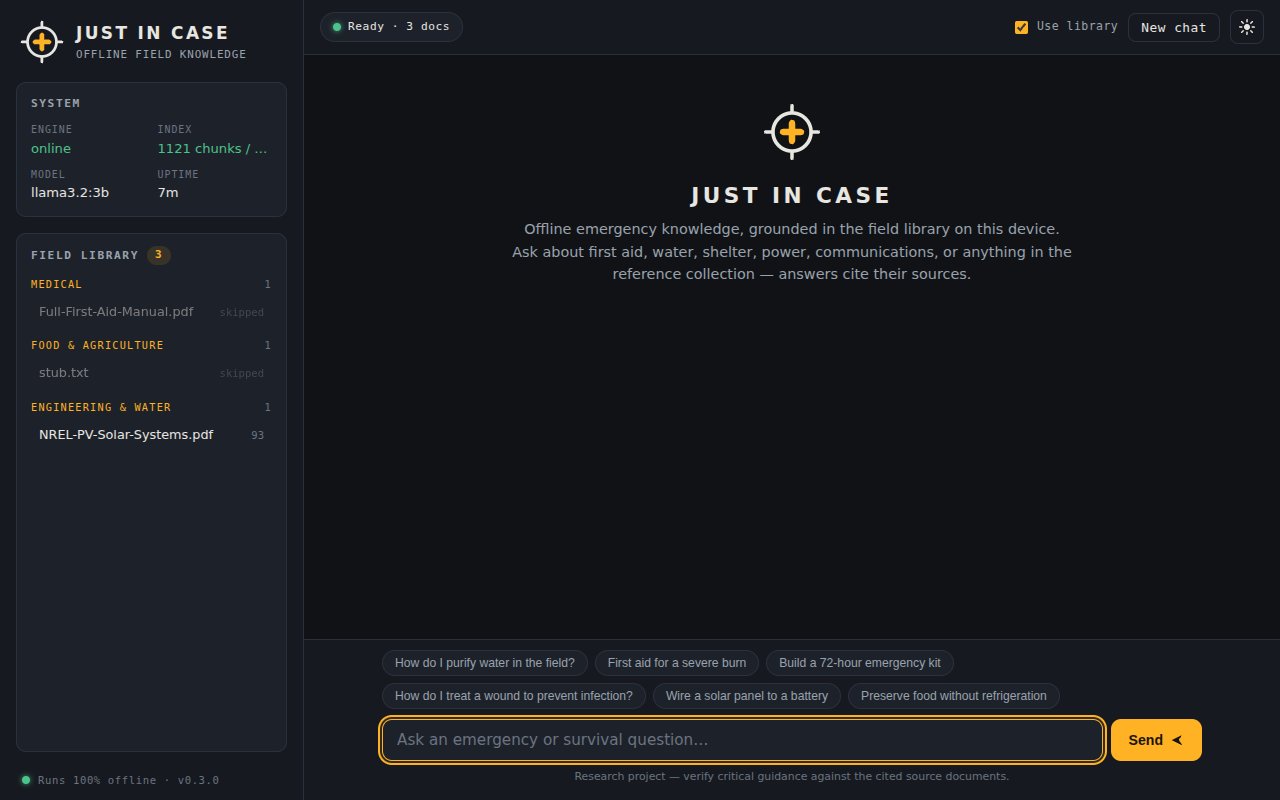
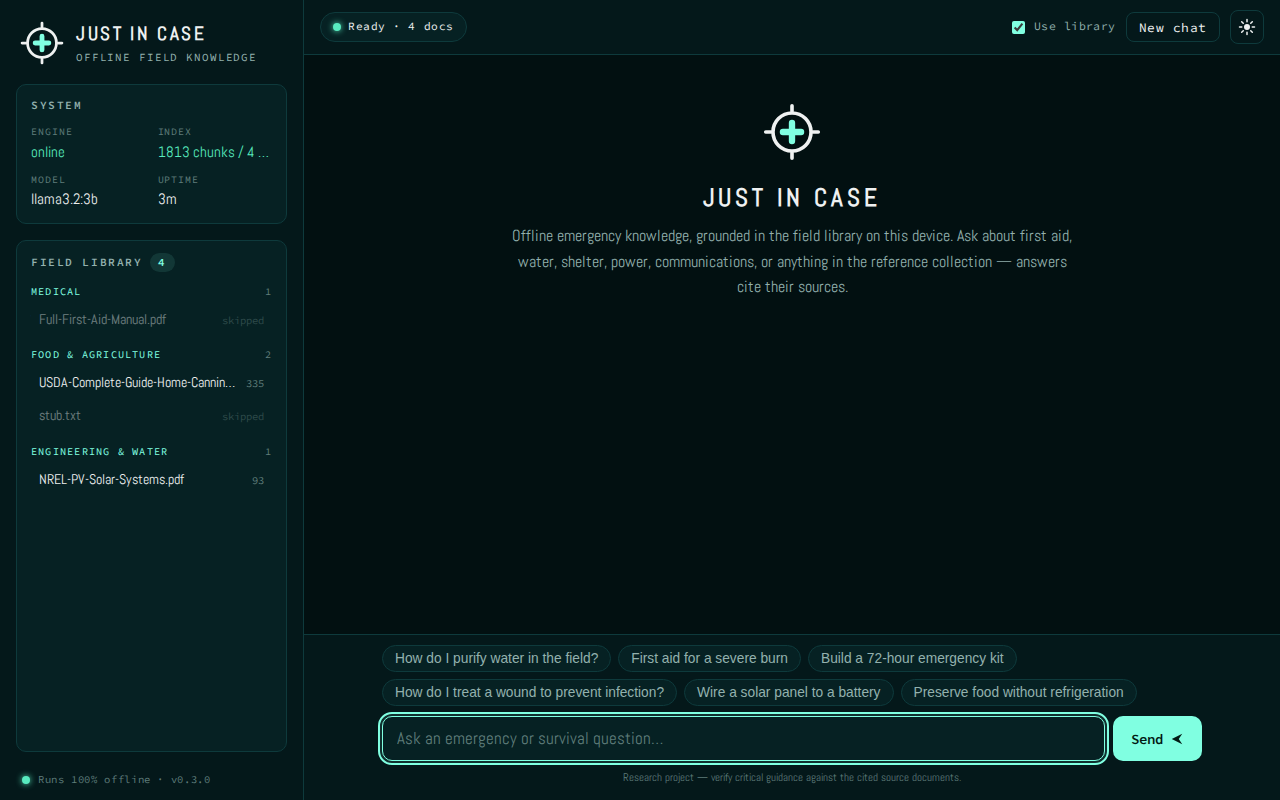
feat(ui): match ci.computer theming
- palette lifted from the ci.computer site CSS: teal-black base
  hsl(184,88%,3%), darkAccent hsl(182,83%,14%), mint lightAccent
  hsl(166,100%,75%), off-white hsl(180,3%,94%); light theme uses the
  CI white/darkAccent pairing for contrast
- brand typography: Abel display/body + Source Code Pro mono, bundled
  as latin-subset woff2 (OFL, ~34 KB) so the brand renders fully
  offline — no font CDN at runtime
- logo + favicon accent moved from safety amber to CI mint; size
  retune for Abel's condensed metrics

https://claude.ai/code/session_01YW7nWPjjLXkRSqQfvqUV4A

diff --git a/public/style.css b/public/style.css
@@ -1,49 +1,70 @@
 /* ════════════════════════════════════════════════════════════════════
    JIC — Just In Case · UI theme
-   Brand: Companion Intelligence monochrome base + safety-amber accent.
+   Brand: matches ci.computer (Companion Intelligence) — teal-black
+   base, mint lightAccent, Abel display + Source Code Pro mono.
    Dark theme is the default (night / low-power field use).
    ════════════════════════════════════════════════════════════════════ */
 
+/* Bundled fonts (OFL) — offline, no CDN. See assets/fonts/LICENSE.txt */
+@font-face {
+  font-family: 'Abel';
+  font-style: normal;
+  font-weight: 400;
+  font-display: swap;
+  src: url('assets/fonts/Abel-Regular.woff2') format('woff2');
+}
+
+@font-face {
+  font-family: 'Source Code Pro';
+  font-style: normal;
+  font-weight: 400 600;
+  font-display: swap;
+  src: url('assets/fonts/SourceCodePro.woff2') format('woff2');
+}
+
 :root {
-  --bg0: #101216;            /* page                                    */
-  --bg1: #16191f;            /* panels / sidebar                        */
-  --bg2: #1d212a;            /* cards, bubbles                          */
-  --bg3: #252a35;            /* hover                                   */
-  --line: #2a303c;
-  --fg: #e8e6e1;
-  --fg-dim: #9aa3ad;
-  --fg-faint: #6b7480;
-  --accent: #ffb224;         /* safety amber                            */
-  --accent-soft: rgba(255, 178, 36, 0.12);
-  --accent-ink: #1a1409;     /* text on amber                           */
-  --ok: #4cc38a;
-  --warn: #ffb224;
+  /* ci.computer site palette:
+     black hsl(184,88%,3%) · darkAccent hsl(182,83%,14%)
+     lightAccent hsl(166,100%,75%) · white hsl(180,3%,94%)          */
+  --bg0: #021011;            /* page                                    */
+  --bg1: #04181a;            /* panels / sidebar                        */
+  --bg2: #062123;            /* cards, bubbles                          */
+  --bg3: #0a2d2f;            /* hover                                   */
+  --line: #0e3a3c;
+  --fg: #eff1f1;
+  --fg-dim: #93b1ae;
+  --fg-faint: #5f7d7a;
+  --accent: #80ffe1;         /* CI mint lightAccent                     */
+  --accent-soft: rgba(128, 255, 225, 0.10);
+  --accent-ink: #021a14;     /* text on mint                            */
+  --ok: #58ebbf;
+  --warn: #ffcb6b;
   --err: #ff6369;
-  --user-bubble: #2b3242;
-  --shadow: 0 8px 24px rgba(0, 0, 0, 0.35);
+  --user-bubble: #0b3335;
+  --shadow: 0 8px 24px rgba(0, 0, 0, 0.45);
   --radius: 10px;
   --radius-lg: 14px;
-  --mono: ui-monospace, "SF Mono", "Cascadia Mono", Menlo, Consolas, monospace;
-  --sans: system-ui, -apple-system, "Segoe UI", Roboto, "Helvetica Neue", sans-serif;
+  --mono: 'Source Code Pro', ui-monospace, "SF Mono", Menlo, Consolas, monospace;
+  --sans: 'Abel', system-ui, -apple-system, "Segoe UI", Roboto, "Helvetica Neue", sans-serif;
 }
 
 [data-theme="light"] {
-  --bg0: #f3f1ea;            /* warm paper                              */
-  --bg1: #faf8f3;
+  --bg0: #eff1f1;            /* CI white                                */
+  --bg1: #f8fafa;
   --bg2: #ffffff;
-  --bg3: #edeae1;
-  --line: #ddd8cc;
-  --fg: #1b1e24;
-  --fg-dim: #5b636e;
-  --fg-faint: #8a9099;
-  --accent: #b97800;
-  --accent-soft: rgba(185, 120, 0, 0.10);
-  --accent-ink: #ffffff;
-  --ok: #1a7f4e;
+  --bg3: #e2e8e8;
+  --line: #ccd9d8;
+  --fg: #04181a;
+  --fg-dim: #3f5a58;
+  --fg-faint: #7d908e;
+  --accent: #063f41;         /* CI darkAccent — mint lacks contrast on white */
+  --accent-soft: rgba(6, 63, 65, 0.08);
+  --accent-ink: #eff1f1;
+  --ok: #0b8a63;
   --warn: #9a6700;
   --err: #c93c40;
-  --user-bubble: #e6e2d6;
-  --shadow: 0 8px 24px rgba(40, 35, 20, 0.10);
+  --user-bubble: #dcebe8;
+  --shadow: 0 8px 24px rgba(4, 24, 26, 0.10);
 }
 
 * { box-sizing: border-box; }
@@ -111,7 +132,7 @@ body {
 .brand-text { display: flex; flex-direction: column; }
 
 .brand-name {
-  font-size: 1.06rem;
+  font-size: 1.18rem;
   font-weight: 750;
   letter-spacing: 0.14em;
   text-transform: uppercase;
@@ -179,7 +200,7 @@ body {
 
 .status-grid dd {
   margin: 1px 0 0;
-  font-size: 0.82rem;
+  font-size: 0.92rem;
   white-space: nowrap;
   overflow: hidden;
   text-overflow: ellipsis;
@@ -230,7 +251,7 @@ body {
   border-radius: 7px;
   background: transparent;
   color: var(--fg);
-  font-size: 0.8rem;
+  font-size: 0.88rem;
   text-align: left;
   text-decoration: none;
   cursor: pointer;
@@ -412,7 +433,7 @@ body {
 .msg-bubble {
   border-radius: var(--radius-lg);
   padding: 12px 16px;
-  font-size: 0.93rem;
+  font-size: 1.04rem;
   overflow-wrap: break-word;
 }
 
@@ -542,7 +563,7 @@ body {
 
 .welcome h1 {
   margin: 0 0 6px;
-  font-size: 1.35rem;
+  font-size: 1.55rem;
   letter-spacing: 0.16em;
   text-transform: uppercase;
 }
@@ -551,7 +572,7 @@ body {
   margin: 0 auto;
   max-width: 560px;
   color: var(--fg-dim);
-  font-size: 0.9rem;
+  font-size: 1.02rem;
 }
 
 /* ── Composer ───────────────────────────────────────────────────── */
@@ -577,7 +598,7 @@ body {
   border: 1px solid var(--line);
   border-radius: 999px;
   color: var(--fg-dim);
-  font-size: 0.76rem;
+  font-size: 0.86rem;
   padding: 5px 12px;
   cursor: pointer;
   transition: all 0.15s ease;
@@ -602,7 +623,7 @@ body {
   border: 1px solid var(--line);
   border-radius: var(--radius);
   color: var(--fg);
-  font-size: 0.95rem;
+  font-size: 1.05rem;
   font-family: var(--sans);
   padding: 11px 14px;
   outline: none;
@@ -632,6 +653,8 @@ body {
 }
 
 .send-btn svg { width: 14px; height: 14px; }
+
+.send-btn span { font-family: var(--mono); font-weight: 600; }
 
 .send-btn:hover:not(:disabled) { filter: brightness(1.08); }
 